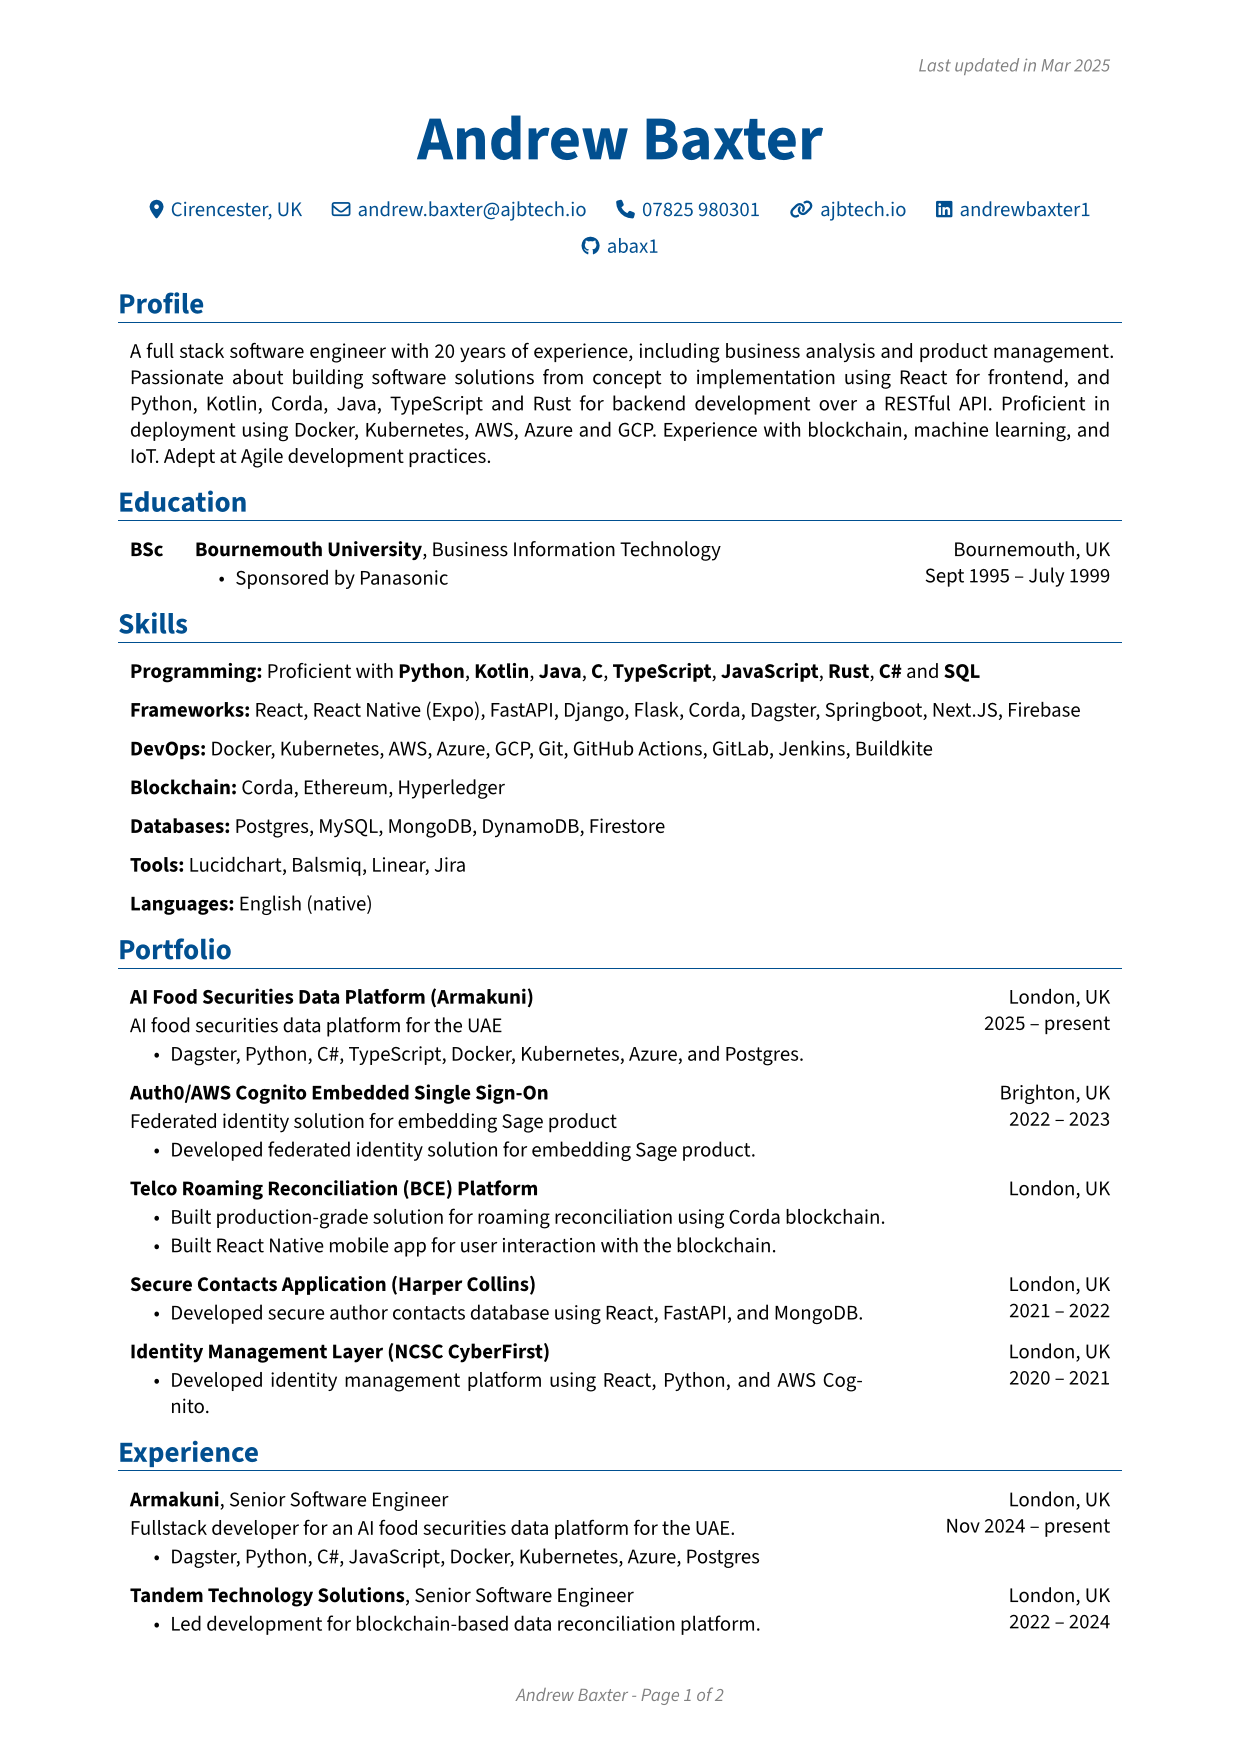
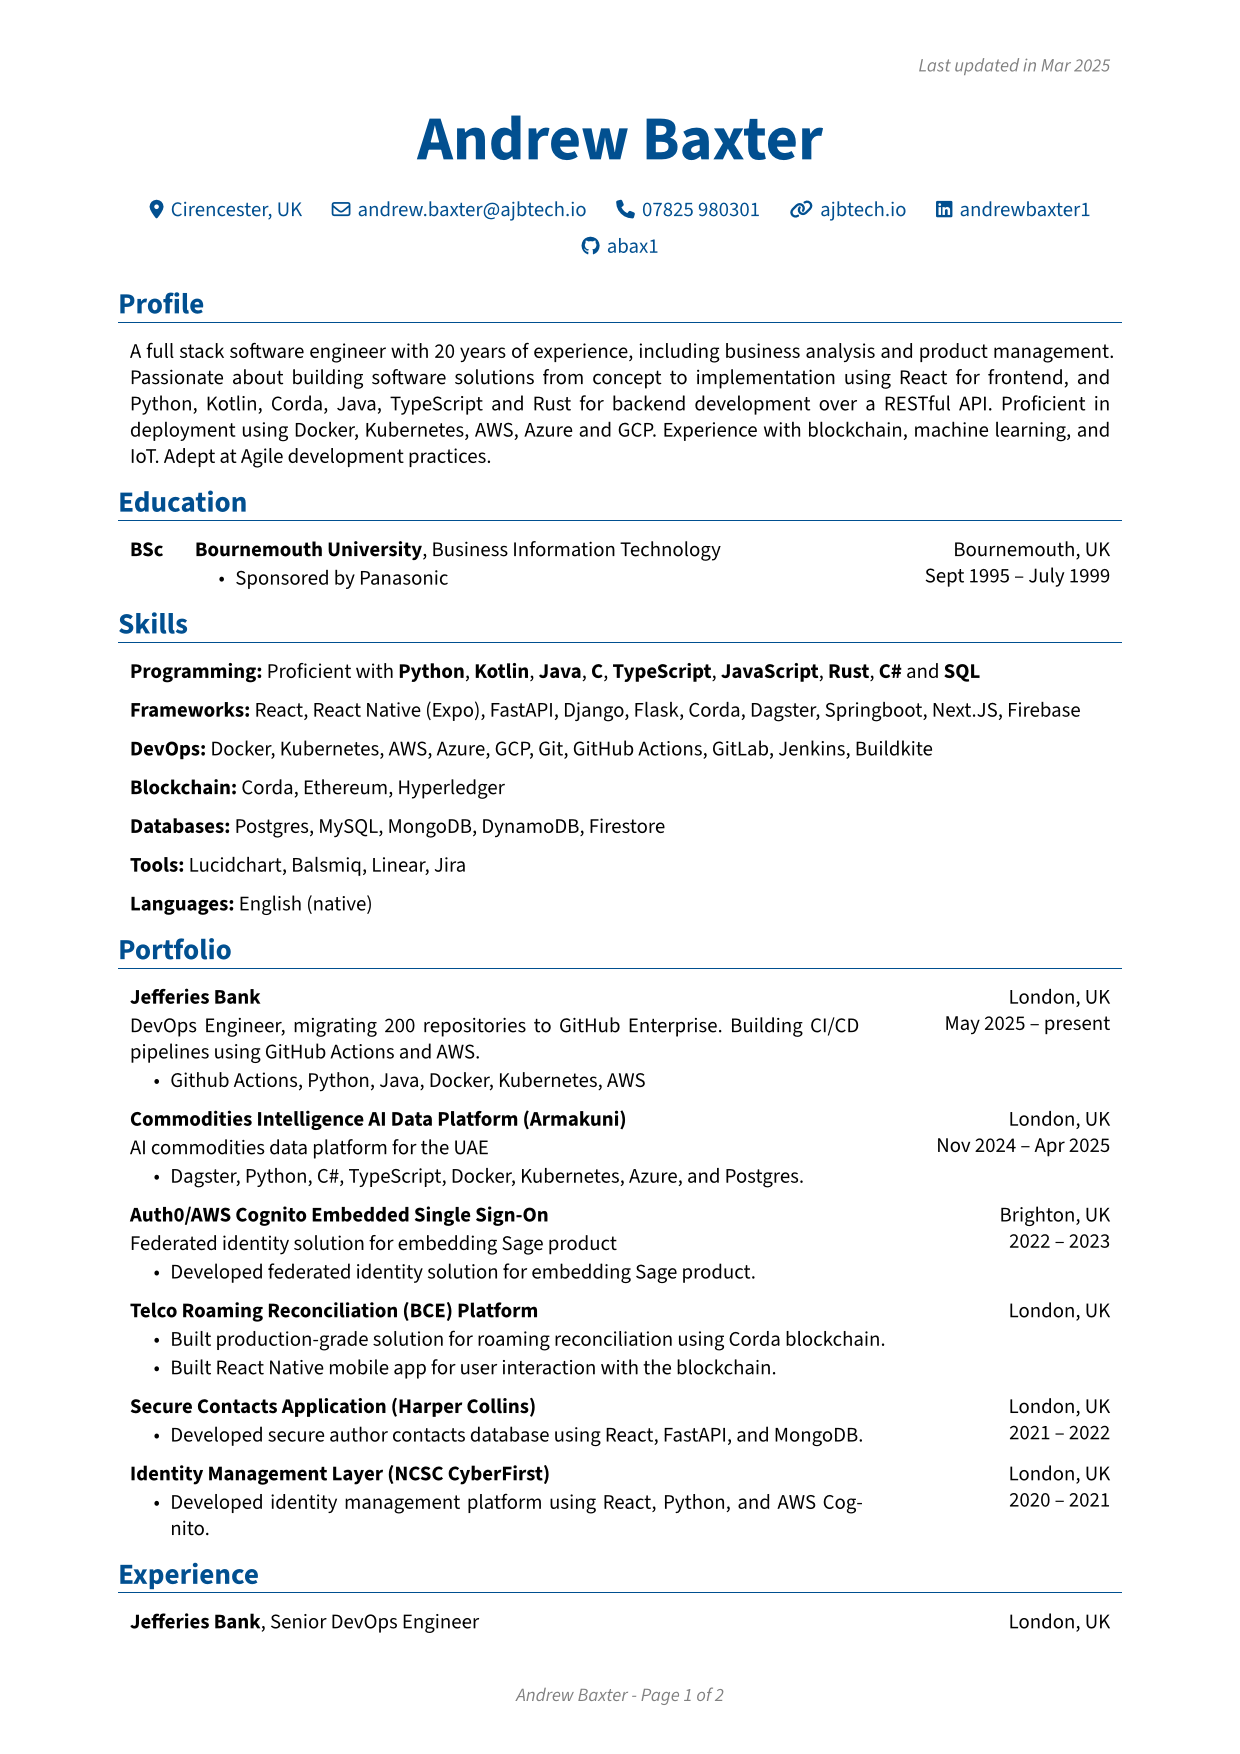
update cv

Changed region(s): [[0.0919, 0.5542, 0.7048, 0.9544], [0.7968, 0.6157, 0.8887, 0.9236], [0.521, 0.9236, 0.5516, 0.9544]]

diff --git a/cv-gen/cv_gen/rendercv_output/Andrew_Baxter_CV.html b/cv-gen/cv_gen/rendercv_output/Andrew_Baxter_CV.html
@@ -68,9 +68,15 @@
         <li>Languages: English (native)</li>
         </ul>
         <h1>Portfolio</h1>
-        <h2>AI Food Securities Data Platform (Armakuni)</h2>
+        <h2>Jefferies Bank</h2>
         <ul>
-        <li>2025 – present</li>
+        <li>May 2025 – present</li>
+        <li>London, UK</li>
+        <li>Github Actions, Python, Java, Docker, Kubernetes, AWS</li>
+        </ul>
+        <h2>Commodities Intelligence AI Data Platform (Armakuni)</h2>
+        <ul>
+        <li>Nov 2024 – Apr 2025</li>
         <li>London, UK</li>
         <li>Dagster, Python, C#, TypeScript, Docker, Kubernetes, Azure, and Postgres.</li>
         </ul>
@@ -99,6 +105,12 @@
         <li>Developed identity management platform using React, Python, and AWS Cognito.</li>
         </ul>
         <h1>Experience</h1>
+        <h2>Jefferies Bank, Senior DevOps Engineer</h2>
+        <ul>
+        <li>Mar 2025 – present</li>
+        <li>London, UK</li>
+        <li>Github Actions, Python, Java, Docker, Kubernetes, AWS, Postgres</li>
+        </ul>
         <h2>Armakuni, Senior Software Engineer</h2>
         <ul>
         <li>Nov 2024 – present</li>

diff --git a/cv-gen/cv_gen/rendercv_output/Andrew_Baxter_CV.md b/cv-gen/cv_gen/rendercv_output/Andrew_Baxter_CV.md
@@ -31,9 +31,15 @@ A full stack software engineer with 20 years of experience, including business a
 - Languages: English (native)
 # Portfolio
 
-## AI Food Securities Data Platform (Armakuni)
+## Jefferies Bank
 
-- 2025 – present
+- May 2025 – present
+- London, UK
+- Github Actions, Python, Java, Docker, Kubernetes, AWS
+
+## Commodities Intelligence AI Data Platform (Armakuni)
+
+- Nov 2024 – Apr 2025
 - London, UK
 - Dagster, Python, C#, TypeScript, Docker, Kubernetes, Azure, and Postgres.
 
@@ -62,6 +68,12 @@ A full stack software engineer with 20 years of experience, including business a
 - Developed identity management platform using React, Python, and AWS Cognito.
 
 # Experience
+
+## Jefferies Bank, Senior DevOps Engineer
+
+- Mar 2025 – present
+- London, UK
+- Github Actions, Python, Java, Docker, Kubernetes, AWS, Postgres
 
 ## Armakuni, Senior Software Engineer
 
